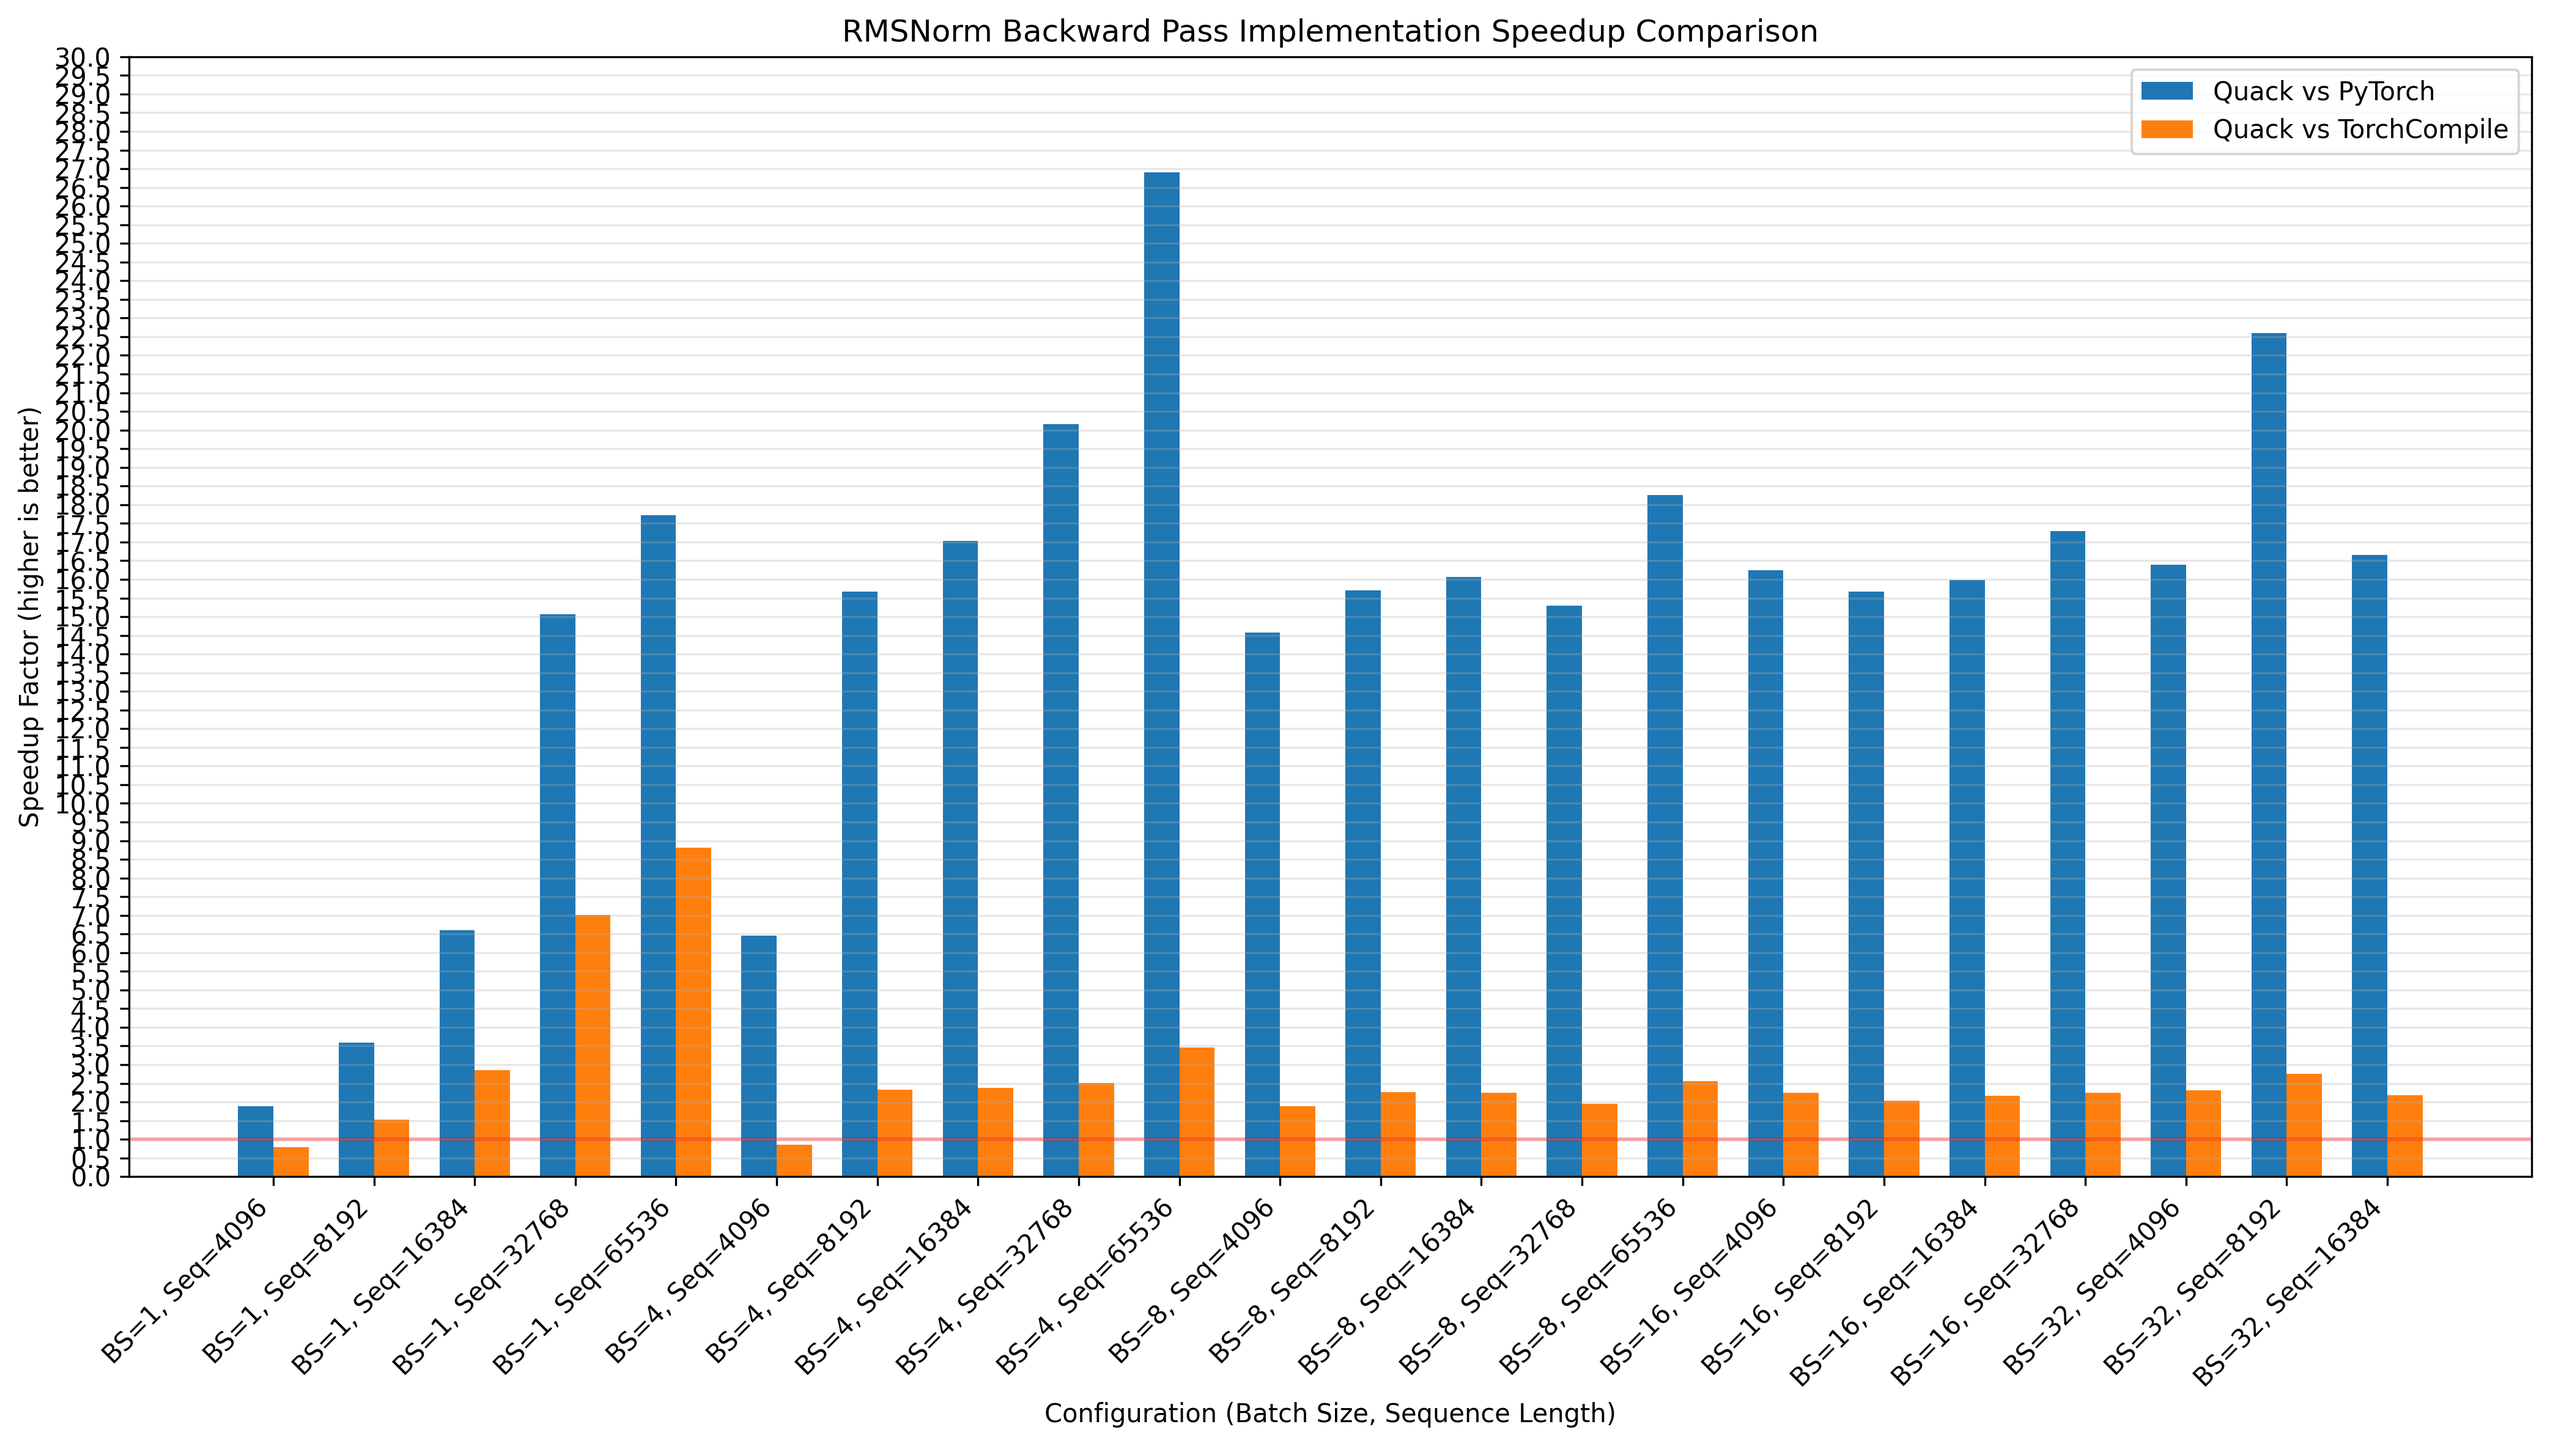
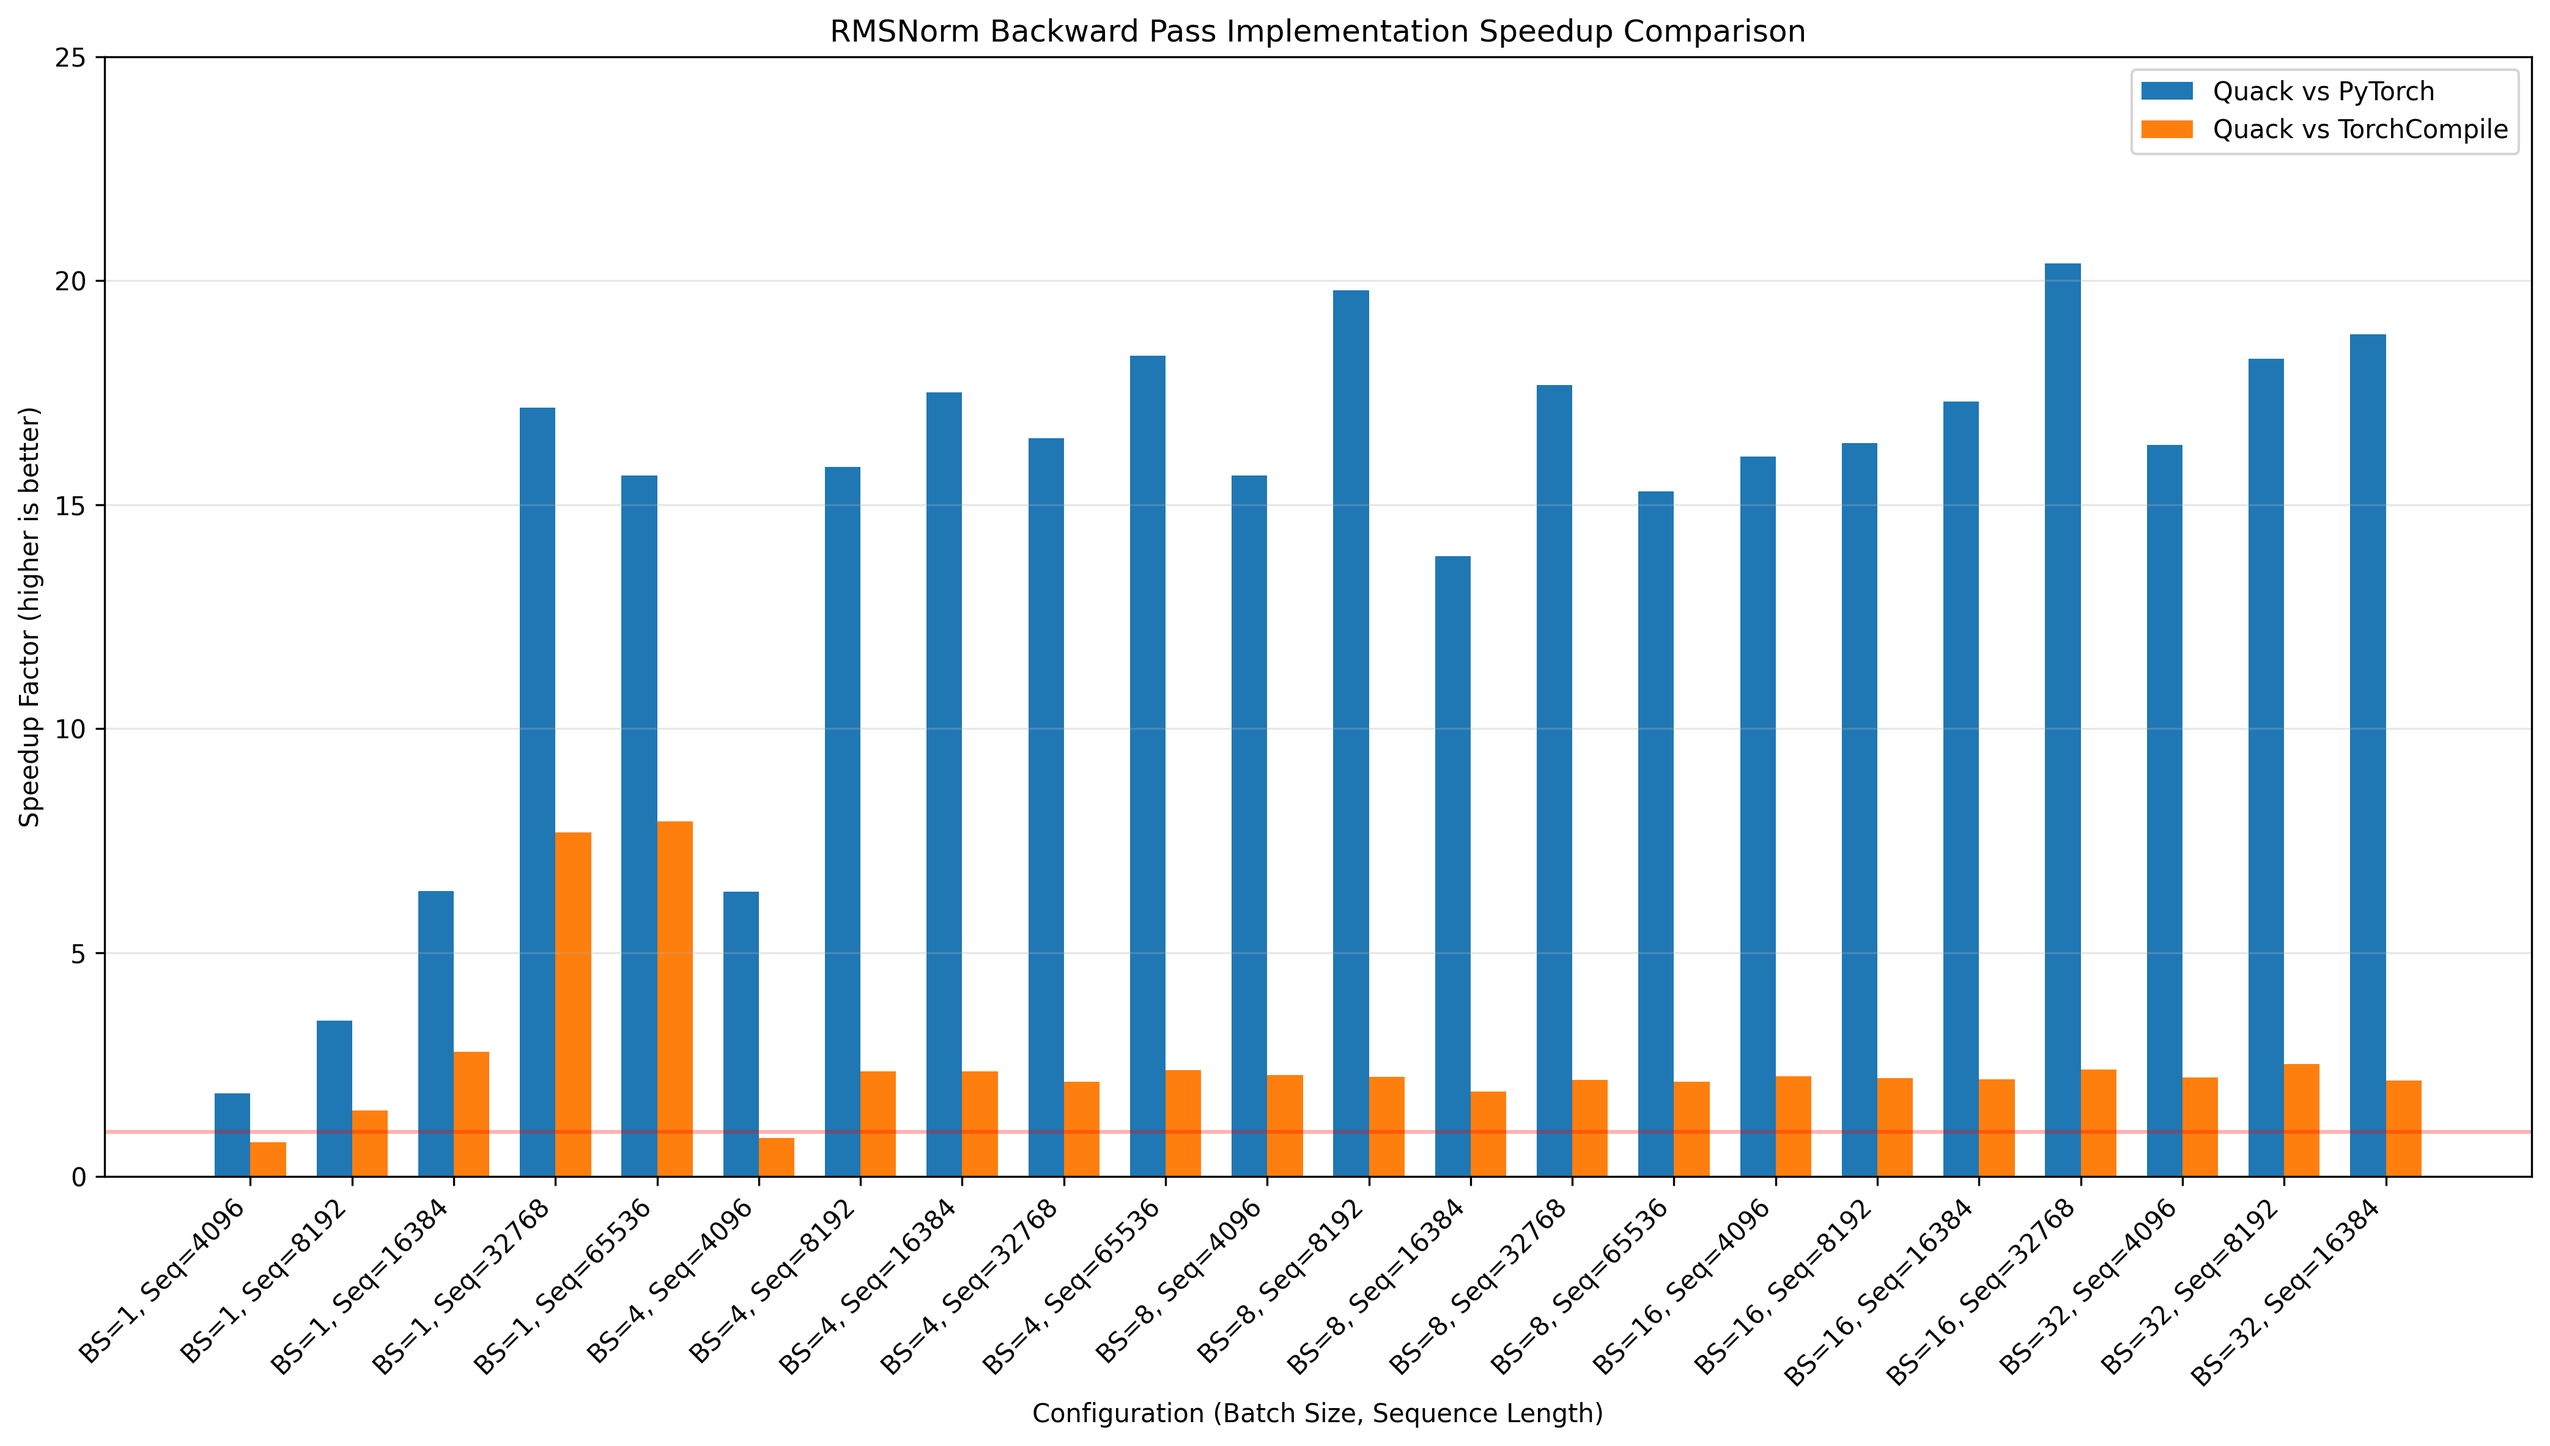
make y axis dynamic regarding tick mark spacing

Changed region(s): [[0.0, 0.0309, 0.9976, 0.9873], [0.3118, 0.0, 0.717, 0.0309]]

diff --git a/benchmarks/pytorch_benchmark_rmsnorm_backward.py b/benchmarks/pytorch_benchmark_rmsnorm_backward.py
@@ -96,9 +96,7 @@ def benchmark_backward_by_subtraction(
     # Print the timing results
     print(f"{implementation_name} forward time: {forward_time_ms:.4f} ms")
     print(f"{implementation_name} total time: {total_time_ms:.4f} ms")
-    print(
-        f"{implementation_name} backward time (subtraction): {backward_time_ms:.4f} ms"
-    )
+    print(f"{implementation_name} backward time (subtraction): {backward_time_ms:.4f} ms")
 
     # Now measure memory usage for backward pass only
     torch.cuda.empty_cache()
@@ -261,18 +259,14 @@ def display_results_table(all_results):
 
         # Calculate baseline (PyTorch RMSNorm) time for speedup calculation
         baseline_time = next(
-            r["avg_time_ms"]
-            for r in results
-            if r["implementation"] == "PyTorch RMSNorm"
+            r["avg_time_ms"] for r in results if r["implementation"] == "PyTorch RMSNorm"
         )
 
         # Prepare data for this configuration
         table_data = []
         for result in results:
             speedup = (
-                baseline_time / result["avg_time_ms"]
-                if result["avg_time_ms"] > 0
-                else float("inf")
+                baseline_time / result["avg_time_ms"] if result["avg_time_ms"] > 0 else float("inf")
             )
             table_data.append(
                 [
@@ -287,30 +281,22 @@ def display_results_table(all_results):
             )
 
         # Print this configuration group
-        print(
-            f"\nBatch Size: {batch_size}, Sequence Length: {seq_len}, Hidden Size: {hidden_size}"
-        )
+        print(f"\nBatch Size: {batch_size}, Sequence Length: {seq_len}, Hidden Size: {hidden_size}")
         print(tabulate(table_data, headers=headers, tablefmt="grid"))
 
         # Calculate and print the speedup of Quack vs TorchCompile
         pytorch_time = next(
-            r["avg_time_ms"]
-            for r in results
-            if r["implementation"] == "PyTorch RMSNorm"
+            r["avg_time_ms"] for r in results if r["implementation"] == "PyTorch RMSNorm"
         )
         torchcompile_time = next(
-            r["avg_time_ms"]
-            for r in results
-            if r["implementation"] == "TorchCompile RMSNorm"
+            r["avg_time_ms"] for r in results if r["implementation"] == "TorchCompile RMSNorm"
         )
         quack_time = next(
             r["avg_time_ms"] for r in results if r["implementation"] == "Quack RMSNorm"
         )
 
         quack_vs_pytorch = pytorch_time / quack_time if quack_time > 0 else float("inf")
-        quack_vs_torchcompile = (
-            torchcompile_time / quack_time if quack_time > 0 else float("inf")
-        )
+        quack_vs_torchcompile = torchcompile_time / quack_time if quack_time > 0 else float("inf")
 
         print(f"Quack vs PyTorch Speedup: {quack_vs_pytorch:.2f}x")
         print(f"Quack vs TorchCompile Speedup: {quack_vs_torchcompile:.2f}x")
@@ -337,16 +323,12 @@ def display_results_table(all_results):
 
     # Calculate average memory usage
     avg_pytorch_mem = sum(pytorch_mem) / len(pytorch_mem) if pytorch_mem else 0
-    avg_torchcompile_mem = (
-        sum(torchcompile_mem) / len(torchcompile_mem) if torchcompile_mem else 0
-    )
+    avg_torchcompile_mem = sum(torchcompile_mem) / len(torchcompile_mem) if torchcompile_mem else 0
     avg_quack_mem = sum(quack_mem) / len(quack_mem) if quack_mem else 0
 
     # Calculate memory savings percentages
     mem_savings_vs_pytorch = (
-        ((avg_pytorch_mem - avg_quack_mem) / avg_pytorch_mem * 100)
-        if avg_pytorch_mem > 0
-        else 0
+        ((avg_pytorch_mem - avg_quack_mem) / avg_pytorch_mem * 100) if avg_pytorch_mem > 0 else 0
     )
     mem_savings_vs_torchcompile = (
         ((avg_torchcompile_mem - avg_quack_mem) / avg_torchcompile_mem * 100)
@@ -355,17 +337,13 @@ def display_results_table(all_results):
     )
 
     # Calculate and print average and median speedups
-    avg_quack_vs_pytorch = sum(quack_vs_pytorch_speedups) / len(
-        quack_vs_pytorch_speedups
-    )
+    avg_quack_vs_pytorch = sum(quack_vs_pytorch_speedups) / len(quack_vs_pytorch_speedups)
     avg_quack_vs_torchcompile = sum(quack_vs_torchcompile_speedups) / len(
         quack_vs_torchcompile_speedups
     )
 
     # Calculate median speedups
-    median_quack_vs_pytorch = sorted(quack_vs_pytorch_speedups)[
-        len(quack_vs_pytorch_speedups) // 2
-    ]
+    median_quack_vs_pytorch = sorted(quack_vs_pytorch_speedups)[len(quack_vs_pytorch_speedups) // 2]
     median_quack_vs_torchcompile = sorted(quack_vs_torchcompile_speedups)[
         len(quack_vs_torchcompile_speedups) // 2
     ]
@@ -388,9 +366,7 @@ def display_results_table(all_results):
     print("\n" + "=" * 80)
     print("PERFORMANCE SUMMARY")
     print("-" * 80)
-    print(
-        f"Average Quack vs PyTorch Speedup: {avg_quack_vs_pytorch:.2f}x across all sizes tested"
-    )
+    print(f"Average Quack vs PyTorch Speedup: {avg_quack_vs_pytorch:.2f}x across all sizes tested")
     print(
         f"Median Quack vs PyTorch Speedup: {median_quack_vs_pytorch:.2f}x across all sizes tested"
     )
@@ -443,20 +419,28 @@ def generate_speedup_graphs(quack_vs_pytorch, quack_vs_torchcompile, config_labe
     plt.title("RMSNorm Backward Pass Implementation Speedup Comparison")
     plt.xticks(x, config_labels, rotation=45, ha="right")
 
-    # Add grid lines at .5 intervals
-    # Need to figure out better way to auto add finer lines when needed, but .5 for now...
+    # Determine appropriate y-axis tick intervals based on max value
     max_speedup = max(max(quack_vs_pytorch), max(quack_vs_torchcompile))
     y_max = max(2.0, np.ceil(max_speedup * 1.1))  # At least 2.0 or 10% above max
-    plt.yticks(np.arange(0, y_max + 0.5, 0.5))  # Major ticks at 0.5 intervals
+
+    # Choose appropriate tick interval based on the maximum value
+    if y_max <= 5:
+        tick_interval = 0.5
+    elif y_max <= 10:
+        tick_interval = 1.0
+    elif y_max <= 20:
+        tick_interval = 2.0
+    else:
+        tick_interval = 5.0
+
+    plt.yticks(np.arange(0, y_max + tick_interval, tick_interval))
     plt.grid(axis="y", linestyle="-", alpha=0.3)
 
     plt.tight_layout()
     plt.legend()
 
     # Save the figure
-    output_path = os.path.join(
-        visual_output_dir, "rmsnorm_backward_speedup_comparison.png"
-    )
+    output_path = os.path.join(visual_output_dir, "rmsnorm_backward_speedup_comparison.png")
     plt.savefig(output_path, dpi=300, bbox_inches="tight")
     print(f"\nSpeedup graph saved to: {output_path}")
 
@@ -469,17 +453,26 @@ def generate_speedup_graphs(quack_vs_pytorch, quack_vs_torchcompile, config_labe
     plt.title("Quack RMSNorm vs PyTorch RMSNorm Backward Pass Speedup")
     plt.xticks(x, config_labels, rotation=45, ha="right")
 
-    # Add grid lines at .5 intervals (same issue, need a more holistic way to generate grid lines)
+    # Determine appropriate y-axis tick intervals based on max value
     max_speedup = max(quack_vs_pytorch)
     y_max = max(2.0, np.ceil(max_speedup * 1.1))  # At least 2.0 or 10% above max
-    plt.yticks(np.arange(0, y_max + 0.5, 0.5))  # Major ticks at 0.5 intervals
+
+    # Choose appropriate tick interval based on the maximum value
+    if y_max <= 5:
+        tick_interval = 0.5
+    elif y_max <= 10:
+        tick_interval = 1.0
+    elif y_max <= 20:
+        tick_interval = 2.0
+    else:
+        tick_interval = 5.0
+
+    plt.yticks(np.arange(0, y_max + tick_interval, tick_interval))
     plt.grid(axis="y", linestyle="-", alpha=0.3)
 
     plt.tight_layout()
 
-    output_path = os.path.join(
-        visual_output_dir, "quack_vs_pytorch_backward_speedup.png"
-    )
+    output_path = os.path.join(visual_output_dir, "quack_vs_pytorch_backward_speedup.png")
     plt.savefig(output_path, dpi=300, bbox_inches="tight")
     print(f"Quack vs PyTorch graph saved to: {output_path}")
 
@@ -492,17 +485,26 @@ def generate_speedup_graphs(quack_vs_pytorch, quack_vs_torchcompile, config_labe
     plt.title("Quack RMSNorm vs TorchCompile RMSNorm Backward Pass Speedup")
     plt.xticks(x, config_labels, rotation=45, ha="right")
 
-    # Add grid lines at .5 intervals
+    # Determine appropriate y-axis tick intervals based on max value
     max_speedup = max(quack_vs_torchcompile)
     y_max = max(2.0, np.ceil(max_speedup * 1.1))  # At least 2.0 or 10% above max
-    plt.yticks(np.arange(0, y_max + 0.5, 0.5))  # Major ticks at 0.5 intervals
+
+    # Choose appropriate tick interval based on the maximum value
+    if y_max <= 5:
+        tick_interval = 0.5
+    elif y_max <= 10:
+        tick_interval = 1.0
+    elif y_max <= 20:
+        tick_interval = 2.0
+    else:
+        tick_interval = 5.0
+
+    plt.yticks(np.arange(0, y_max + tick_interval, tick_interval))
     plt.grid(axis="y", linestyle="-", alpha=0.3)
 
     plt.tight_layout()
 
-    output_path = os.path.join(
-        visual_output_dir, "quack_vs_torchcompile_backward_speedup.png"
-    )
+    output_path = os.path.join(visual_output_dir, "quack_vs_torchcompile_backward_speedup.png")
     plt.savefig(output_path, dpi=300, bbox_inches="tight")
     print(f"Quack vs TorchCompile graph saved to: {output_path}")
 
@@ -518,9 +520,7 @@ if __name__ == "__main__":
     num_benchmark_iterations = 50
     num_warmup_iterations = 20
 
-    print(
-        "Running RMSNorm backward pass benchmarks across different sequence lengths..."
-    )
+    print("Running RMSNorm backward pass benchmarks across different sequence lengths...")
     print(f"Hidden dimension: {hidden_features}, Data type: {dtype}")
     print(f"Iterations: {num_benchmark_iterations}, Warmup: {num_warmup_iterations}")
 
@@ -542,9 +542,7 @@ if __name__ == "__main__":
                 # Skip very large configurations that might cause OOM
                 # TODO - we should figure out a better way to determine this, ala check GPU memory before running...
                 if batch_size * sequence_length * hidden_features > 2**31:
-                    print(
-                        f"Skipping BS={batch_size}, SeqLen={sequence_length} (too large)"
-                    )
+                    print(f"Skipping BS={batch_size}, SeqLen={sequence_length} (too large)")
                     continue
 
                 print(f"\nBenchmarking: BS={batch_size}, SeqLen={sequence_length}...")
@@ -560,13 +558,9 @@ if __name__ == "__main__":
                         warmup_iterations=num_warmup_iterations,
                         dtype=dtype,
                     )
-                    all_results[(batch_size, sequence_length, hidden_features)] = (
-                        results
-                    )
+                    all_results[(batch_size, sequence_length, hidden_features)] = results
                 except Exception as e:
-                    print(
-                        f"Error benchmarking BS={batch_size}, SeqLen={sequence_length}: {e}"
-                    )
+                    print(f"Error benchmarking BS={batch_size}, SeqLen={sequence_length}: {e}")
 
         # Display results in a table
         print("\n=== RMSNorm Backward Pass Benchmark Results ===")
